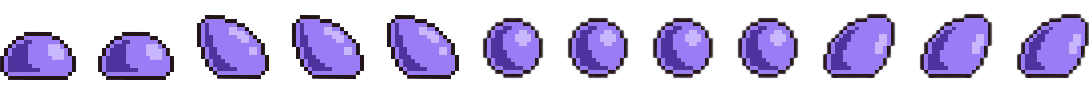
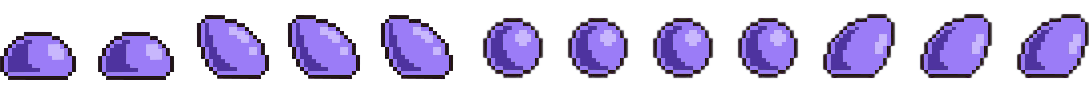
Короче много изменений, лень расписывать

Changed region(s): [[0.2498, 0.1489, 0.4371, 0.8511]]

diff --git a/main.py b/main.py
@@ -4,7 +4,7 @@ import os
 
 pygame.init()
 pygame.key.set_repeat(200, 70)
-FPS = 50
+FPS = 12
 size = WIDTH, HEIGHT = 600, 400
 screen = pygame.display.set_mode(size)
 clock = pygame.time.Clock()
@@ -67,16 +67,17 @@ tile_images = {
     'empty': load_image('grass.png')
 }
 
-all_sprites = pygame.sprite.Group()
+player_group = pygame.sprite.Group()
 tiles_group = pygame.sprite.Group()
 phase_group = pygame.sprite.Group()
+enemy_group = pygame.sprite.Group()
 tile_width = tile_height = 50
 phase_staff = None
 
 
 class AnimatedSprite(pygame.sprite.Sprite):
-    def __init__(self, sheet, columns, rows, x, y):
-        super().__init__(all_sprites)
+    def __init__(self, sheet, columns, rows, x, y, type1):
+        super().__init__(enemy_group if type1 == 'enemy' else player_group)
         self.frames = []
         self.cut_sheet(sheet, columns, rows)
         self.cur_frame = 0
@@ -94,9 +95,6 @@ class AnimatedSprite(pygame.sprite.Sprite):
         self.cur_frame = (self.cur_frame + 1) % len(self.frames)
         self.image = self.frames[self.cur_frame]
 
-    def get_rect(self):
-        return self.rect
-
 
 class Board:
     def __init__(self, width, height, player_pos, board):
@@ -108,8 +106,8 @@ class Board:
         self.xsize = len(board[0])
         self.ysize = len(board)
         self.cell_size = tile_width
-        self.player_pos = player_pos
-        self.player = load_image("mar.png")
+        self.x, self.y = player_pos[0], player_pos[1]
+        self.player = AnimatedSprite(pygame.transform.scale(load_image('hero_w.png'), [600, 50]), 12, 1, self.x * 50, self.y * 50, 'player')
 
     def set_view(self, left, top, cell_size):
         self.left = left
@@ -119,22 +117,24 @@ class Board:
     def render(self, screen):
         tiles_group.draw(screen)
         phase_group.draw(screen)
-        x, y = self.player_pos[0] * self.cell_size + 15, self.player_pos[1] * self.cell_size + 5
-        screen.blit(self.player, [x, y])
+        x, y = self.x * self.cell_size, self.y * self.cell_size
+        self.player.rect.topleft = [x, y]
+        player_group.draw(screen)
+        self.player.update()
 
     def can_move(self, delta_x, delta_y):
-        y, x = self.player_pos[1] + delta_y, self.player_pos[0] + delta_x
+        y, x = self.y + delta_y, self.x + delta_x
         if x >= WIDTH // self.cell_size or y >= HEIGHT // self.cell_size or self.board[y][x].can_move:
             return True
         return False
 
     def move(self, delta_x, delta_y):
-        self.player_pos = [self.player_pos[0] + delta_x, self.player_pos[1] + delta_y]
+        self.x, self.y = self.x + delta_x, self.y + delta_y
 
 
 class Tile(pygame.sprite.Sprite):
     def __init__(self, tile_type, pos_x, pos_y, can_move=True):
-        super().__init__(tiles_group, all_sprites)
+        super().__init__(tiles_group)
         self.image = tile_images[tile_type]
         self.rect = self.image.get_rect().move(
             tile_width * pos_x, tile_height * pos_y)
@@ -144,7 +144,7 @@ class Tile(pygame.sprite.Sprite):
 
 class Phase_staff(pygame.sprite.Sprite):
     def __init__(self, img, pos_x, pos_y):
-        super().__init__(phase_group, all_sprites)
+        super().__init__(phase_group)
         self.pos_y = pos_y
         self.image = img
         self.pos_x = pos_x
@@ -153,13 +153,13 @@ class Phase_staff(pygame.sprite.Sprite):
         self.can_pick_up = True
 
     def win_rule(self, board):
-        if board.player_pos[0] == self.pos_x and board.player_pos[1] == self.pos_y:
+        if board.x == self.pos_x and board.y == self.pos_y:
             phase_group.empty()
             print('You win!')
 
 
 def generate_level(level):
-    global phase_staff
+    global phase_staff, enemy
     new_player, x, y, board = None, None, None, []
     player_pos = [0, 0]
     for y in range(len(level)):
@@ -175,6 +175,9 @@ def generate_level(level):
             elif level[y][x] == '*':
                 a.append(Tile('empty', x, y))
                 phase_staff = Phase_staff(load_image('phase_art.png'), x, y)
+            elif level[y][x] == '1':
+                a.append(Tile('empty', x, y))
+                enemy = AnimatedSprite(pygame.transform.scale(load_image('phase_enemy_1_w.png'), [600, 50]), 12, 1, x * 50, y * 50, 'enemy')
         board.append(a)
     # вернем игрока, а также размер поля в клетках
     return x, y, Board(WIDTH, HEIGHT, player_pos, board)
@@ -195,25 +198,30 @@ def player_moves(key):
         if phase_staff:
             phase_staff.win_rule(board)
     elif key[pygame.K_RIGHT] and board.can_move(1, 0):
-        if board.player_pos[0] + 1 >= board.xsize:
+        if board.x + 1 >= board.xsize:
             MAP_COUNT += 1
+            enemy_group.empty()
+            player_group.empty()
             level_x, level_y, board = generate_level(load_level(f'map{MAP_COUNT}.txt'))
         else:
             board.move(1, 0)
             if phase_staff:
                 phase_staff.win_rule(board)
     elif key[pygame.K_LEFT] and board.can_move(-1, 0):
-        if board.player_pos[0] <= 0:
+        if board.x <= 0:
             MAP_COUNT -= 1
-            level_x, level_y, board = generate_level(load_level(f'map{MAP_COUNT}.txt'))
+            enemy_group.empty()
+            player_group.empty()
             phase_group.empty()
             phase_staff = None
+            level_x, level_y, board = generate_level(load_level(f'map{MAP_COUNT}.txt'))
         else:
             board.move(-1, 0)
             if phase_staff:
                 phase_staff.win_rule(board)
 
 
+clock = pygame.time.Clock()
 running = True
 while running:
     for event in pygame.event.get():
@@ -223,5 +231,8 @@ while running:
         player_moves(key)
     screen.fill(pygame.Color("black"))
     board.render(screen)
+    enemy.update()
+    enemy_group.draw(screen)
+    clock.tick(FPS)
     pygame.display.flip()
 terminate()
